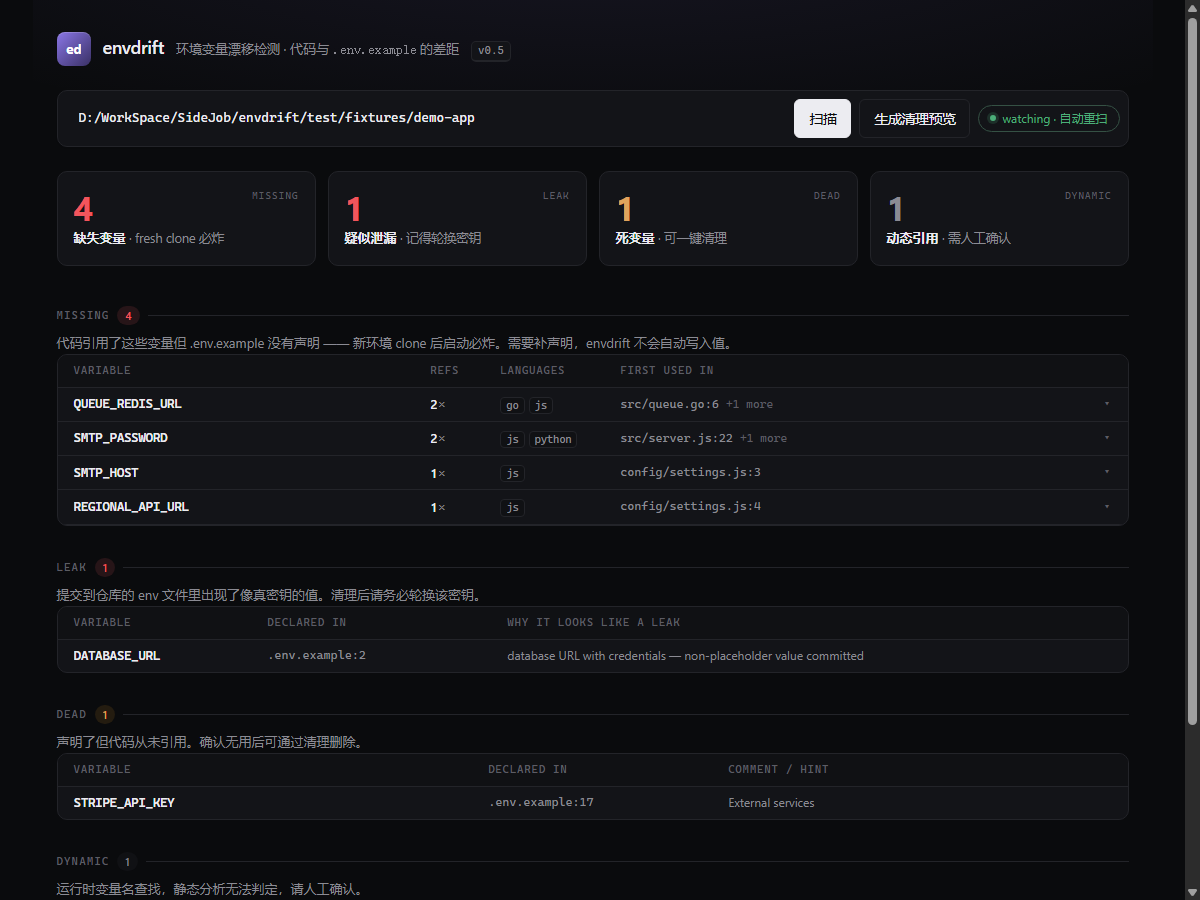
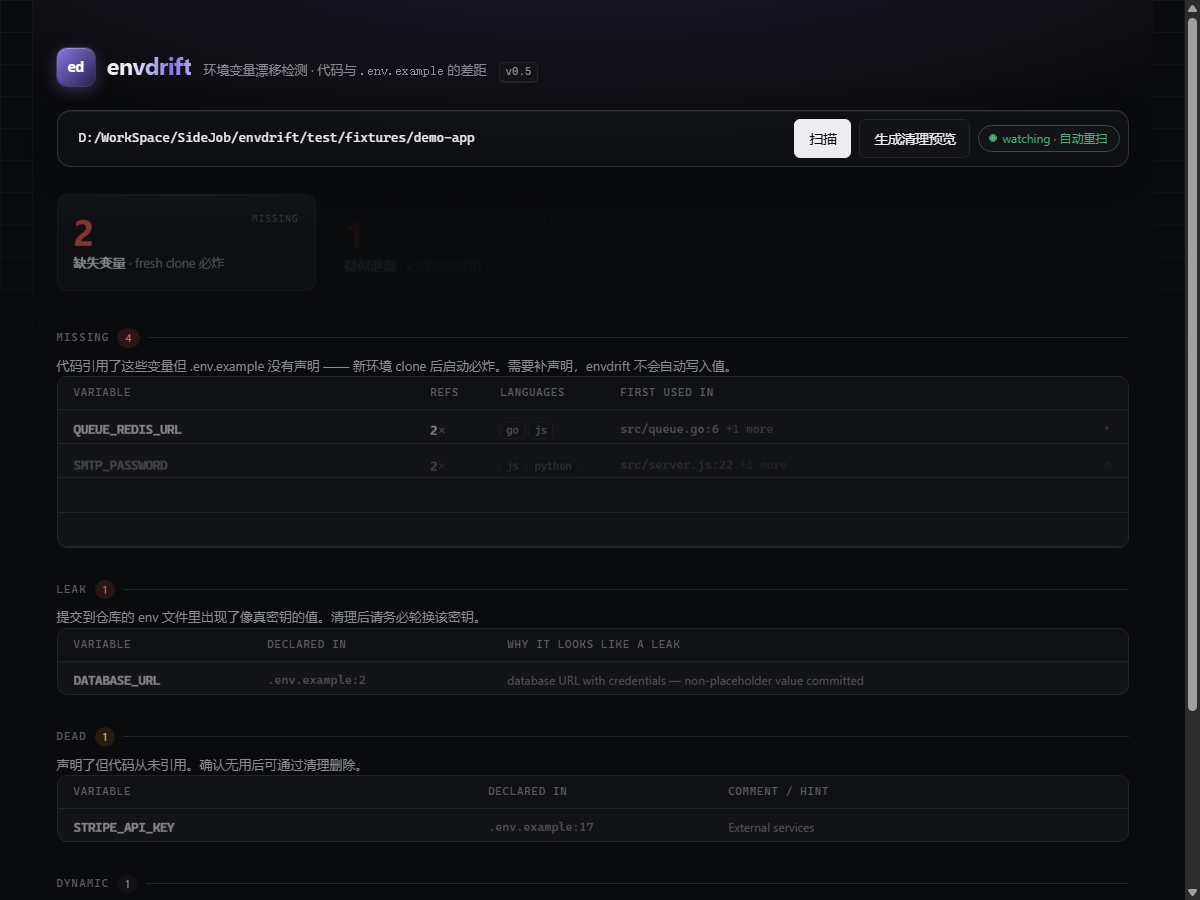
style(ui): real visual effects — glass, glow, grid, motion (v0.8)
Stop re-skinning tokens; add the effects people actually see:

- glassmorphism scan bar: backdrop-blur(20px) saturate(1.4), translucent
  surface, inner top highlight, sticky while scrolling
- blueprint grid overlay on the page, masked to fade downward
- violet halo behind the header strengthened (16% dark)
- gradient-text h1 (fg -> accent clip)
- logo: gradient + glow ring + floating shadow
- stat cards: accent-tinted top gradient, Linear-style 1px light edge,
  hover lift + accent shadow, edge highlight brightens
- live pulse ring on the watching dot (1.8s loop)
- entrance motion: stat cards cascade 45ms apart, table rows cascade
  30ms apart, numbers count up with eased raf tween
- reduced-motion: all of the above disabled properly

diff --git a/src/web/index.html b/src/web/index.html
@@ -21,6 +21,9 @@
   --mono: ui-monospace, "SF Mono", "Cascadia Code", Consolas, monospace;
   --sans: "Inter", -apple-system, "Segoe UI", "PingFang SC", "Microsoft YaHei", system-ui, sans-serif;
   --halo: radial-gradient(1200px 320px at 50% -80px, rgba(110, 86, 207, 0.07), transparent 70%);
+  --grid-line: rgba(24, 24, 27, 0.045);
+  --glass: rgba(255, 255, 255, 0.72);
+  --glass-edge: rgba(255, 255, 255, 0.85);
 }
 @media (prefers-color-scheme: dark) {
   :root {
@@ -31,7 +34,10 @@
     --danger: #f2555c; --danger-subtle: #271518;
     --warn: #e0a35c; --warn-subtle: #241c10;
     --ok: #4cae79; --ok-subtle: #0f1e16;
-    --halo: radial-gradient(1200px 320px at 50% -80px, rgba(139, 119, 232, 0.10), transparent 70%);
+    --halo: radial-gradient(1200px 380px at 50% -100px, rgba(139, 119, 232, 0.16), transparent 68%);
+    --grid-line: rgba(236, 236, 241, 0.05);
+    --glass: rgba(19, 20, 24, 0.60);
+    --glass-edge: rgba(255, 255, 255, 0.14);
   }
 }
 * { box-sizing: border-box; margin: 0; }
@@ -43,23 +49,44 @@ body {
   padding: 0 var(--space-5) var(--space-7);
   max-width: 1120px; margin: 0 auto;
   -webkit-font-smoothing: antialiased; text-rendering: optimizeLegibility;
+  position: relative;
+}
+/* full-page blueprint grid, fading out downward */
+body::before {
+  content: "";
+  position: fixed; inset: 0; z-index: -1; pointer-events: none;
+  background-image:
+    linear-gradient(to right, var(--grid-line) 1px, transparent 1px),
+    linear-gradient(to bottom, var(--grid-line) 1px, transparent 1px);
+  background-size: 32px 32px;
+  mask-image: linear-gradient(to bottom, rgba(0,0,0,.9), transparent 55%);
+  -webkit-mask-image: linear-gradient(to bottom, rgba(0,0,0,.9), transparent 55%);
 }
 button { font: inherit; cursor: pointer; border-radius: var(--radius-sm); }
 :focus-visible { outline: 2px solid var(--accent); outline-offset: 2px; }
-::selection { background: var(--accent-subtle); color: var(--fg); }
+::selection { background: color-mix(in oklab, var(--accent) 28%, transparent); color: var(--fg); }
 
 /* ---------- header ---------- */
-header { display: flex; align-items: center; gap: var(--space-3); padding: var(--space-6) 0 var(--space-5); flex-wrap: wrap; }
+header { display: flex; align-items: center; gap: var(--space-3); padding: var(--space-7) 0 var(--space-5); flex-wrap: wrap; }
 .logo {
-  width: 34px; height: 34px; border-radius: 8px; flex: none;
-  background: linear-gradient(135deg, var(--accent), color-mix(in oklab, var(--accent) 55%, #000));
+  width: 38px; height: 38px; border-radius: 10px; flex: none;
+  background: linear-gradient(135deg, var(--accent) 0%, color-mix(in oklab, var(--accent) 45%, #000) 100%);
   color: #fff;
   display: grid; place-items: center;
-  font-family: var(--mono); font-weight: 700; font-size: 14px; letter-spacing: -0.5px;
-  box-shadow: inset 0 1px 0 rgba(255,255,255,.18), 0 0 0 1px rgba(0,0,0,.06);
+  font-family: var(--mono); font-weight: 700; font-size: 15px; letter-spacing: -0.5px;
+  box-shadow:
+    inset 0 1px 0 rgba(255,255,255,.25),
+    0 0 0 1px color-mix(in oklab, var(--accent) 30%, transparent),
+    0 4px 16px color-mix(in oklab, var(--accent) 35%, transparent);
 }
 header .titles { display: flex; align-items: baseline; gap: var(--space-3); flex-wrap: wrap; }
-h1 { font-size: var(--text-lg); font-weight: 600; letter-spacing: -0.02em; line-height: 1.3; }
+h1 {
+  font-size: var(--text-xl); font-weight: 700; line-height: 1.2;
+  letter-spacing: -0.03em;
+  background: linear-gradient(100deg, var(--fg) 30%, var(--accent) 75%, color-mix(in oklab, var(--accent) 60%, #fff));
+  -webkit-background-clip: text; background-clip: text;
+  -webkit-text-fill-color: transparent; color: transparent;
+}
 header .sub { color: var(--fg-muted); font-size: var(--text-sm); }
 .kbd {
   font-family: var(--mono); font-size: 11px; color: var(--fg-muted);
@@ -67,11 +94,19 @@ header .sub { color: var(--fg-muted); font-size: var(--text-sm); }
   padding: 0 6px; background: var(--surface);
 }
 
+/* ---------- glass scan bar ---------- */
 .scanrow {
+  position: sticky; top: var(--space-3); z-index: 20;
   display: flex; gap: var(--space-2); flex-wrap: wrap;
-  background: var(--surface); border: 1px solid var(--line); border-radius: var(--radius-md);
+  background: var(--glass);
+  -webkit-backdrop-filter: blur(20px) saturate(1.4);
+  backdrop-filter: blur(20px) saturate(1.4);
+  border: 1px solid var(--glass-edge);
+  border-radius: 14px;
   padding: var(--space-2);
-  box-shadow: 0 1px 2px rgba(0,0,0,.04);
+  box-shadow:
+    0 1px 0 rgba(255,255,255,.06) inset,
+    0 8px 32px rgba(0,0,0,.12);
 }
 .scanrow input {
   flex: 1 1 340px; font: inherit; padding: 8px 12px; border-radius: var(--radius-sm);
@@ -98,20 +133,29 @@ header .sub { color: var(--fg-muted); font-size: var(--text-sm); }
 .btn .spin { width: 13px; height: 13px; border-width: 2px; border-color: rgba(255,255,255,.3); border-top-color: currentColor; vertical-align: middle; }
 .btn:not(.primary):not(.danger) .spin { border-color: var(--line); border-top-color: var(--fg-muted); }
 
-/* watch status pill */
+/* watch status pill: live pulse */
 .watchpill {
   display: inline-flex; align-items: center; gap: 6px;
   font-size: 12px; color: var(--fg-muted);
   border: 1px solid var(--line); border-radius: 999px; padding: 3px 11px;
   align-self: center; white-space: nowrap; background: var(--surface);
 }
-.watchpill .dot { width: 6px; height: 6px; border-radius: 50%; background: var(--fg-faint); }
+.watchpill .dot { width: 6px; height: 6px; border-radius: 50%; background: var(--fg-faint); position: relative; }
 .watchpill.on { color: var(--ok); border-color: color-mix(in oklab, var(--ok) 35%, var(--line)); }
-.watchpill.on .dot { background: var(--ok); box-shadow: 0 0 0 3px color-mix(in oklab, var(--ok) 18%, transparent); }
+.watchpill.on .dot { background: var(--ok); }
+.watchpill.on .dot::after {
+  content: ""; position: absolute; inset: -4px; border-radius: 50%;
+  border: 1.5px solid var(--ok);
+  animation: pulse 1.8s cubic-bezier(.2,.8,.2,1) infinite;
+}
+@keyframes pulse {
+  0% { transform: scale(.5); opacity: .9; }
+  70%, 100% { transform: scale(1.7); opacity: 0; }
+}
 .watchpill.stale { color: var(--warn); border-color: color-mix(in oklab, var(--warn) 35%, var(--line)); }
 .watchpill.stale .dot { background: var(--warn); }
 
-/* ---------- summary: stat blocks ---------- */
+/* ---------- summary: stat blocks (gradient border glow) ---------- */
 .summary {
   display: grid; grid-template-columns: repeat(auto-fit, minmax(180px, 1fr));
   gap: var(--space-3); padding: var(--space-5) 0 var(--space-2);
@@ -121,12 +165,22 @@ header .sub { color: var(--fg-muted); font-size: var(--text-sm); }
   display: flex; flex-direction: column; gap: 1px;
   border: 1px solid var(--line); border-radius: var(--radius-md);
   padding: var(--space-4);
-  background: var(--surface);
-  transition: border-color .12s ease-out, transform .12s ease-out;
+  background:
+    linear-gradient(180deg, color-mix(in oklab, var(--surface) 92%, var(--accent) 8%), var(--surface) 40%)
+    , var(--surface);
+  transition: border-color .15s ease-out, transform .15s cubic-bezier(.2,.8,.2,1), box-shadow .15s ease-out;
   text-decoration: none; color: inherit; position: relative;
+  overflow: hidden;
 }
-.stat:hover { border-color: var(--line-strong); transform: translateY(-1px); }
-.stat b { font-size: 34px; font-weight: 650; line-height: 1.15; letter-spacing: -0.03em; }
+/* Linear-style top light edge */
+.stat::before {
+  content: ""; position: absolute; top: 0; left: 10%; right: 10%; height: 1px;
+  background: linear-gradient(90deg, transparent, color-mix(in oklab, var(--accent) 55%, transparent), transparent);
+  opacity: .6; transition: opacity .15s ease-out;
+}
+.stat:hover { border-color: color-mix(in oklab, var(--accent) 40%, var(--line)); transform: translateY(-2px); box-shadow: 0 8px 24px color-mix(in oklab, var(--accent) 14%, transparent); }
+.stat:hover::before { opacity: 1; }
+.stat b { font-size: 36px; font-weight: 650; line-height: 1.15; letter-spacing: -0.03em; }
 .stat span { font-size: 12.5px; color: var(--fg-muted); }
 .stat .zh { color: var(--fg); font-weight: 550; font-size: 13px; }
 .stat .tag {
@@ -247,7 +301,20 @@ tr.row-dyn .dotcol::before { background: var(--fg-faint); }
 .hint { font-size: var(--text-sm); color: var(--fg-muted); }
 .spin { display: inline-block; width: 14px; height: 14px; border: 2px solid var(--line); border-top-color: var(--accent); border-radius: 50%; animation: r .7s linear infinite; vertical-align: -2px; }
 @keyframes r { to { transform: rotate(360deg); } }
-@media (prefers-reduced-motion: reduce) { .spin { animation: none; border-top-color: var(--fg-muted); } .stat:hover { transform: none; } }
+
+/* entrance: stat cards + table rows rise in */
+@keyframes rise {
+  from { opacity: 0; transform: translateY(6px); }
+  to { opacity: 1; transform: translateY(0); }
+}
+.row-anim { animation: rise .35s cubic-bezier(.2,.8,.2,1) backwards; }
+
+@media (prefers-reduced-motion: reduce) {
+  .spin { animation: none; border-top-color: var(--fg-muted); }
+  .stat:hover { transform: none; }
+  .watchpill.on .dot::after { animation: none; opacity: 0; }
+  .row-anim { animation: none !important; opacity: 1 !important; }
+}
 .result {
   margin-top: var(--space-4); border: 1px solid var(--line); border-radius: var(--radius-md);
   padding: var(--space-3) var(--space-4); background: var(--surface);
@@ -417,6 +484,28 @@ function tbl(id, cols, rowsHtml, emptyText, count) {
       <thead><tr>${cols.map((c) => `<th${c.w ? ` style="width:${c.w}"` : ''}>${c.t}</th>`).join('')}</tr></thead>
       <tbody>${rowsHtml}</tbody>
     </table></div>`;
+  // rows cascade in
+  el.querySelectorAll('tbody tr:not(.rowdetail)').forEach((tr, i) => {
+    tr.classList.add('row-anim');
+    tr.style.animationDelay = `${Math.min(i * 30, 300)}ms`;
+  });
+}
+
+/** animated count-up for stat numbers */
+function countUp(id, target) {
+  const el = $(id);
+  const reduced = matchMedia('(prefers-reduced-motion: reduce)').matches;
+  if (reduced || target === 0) { el.textContent = String(target); return; }
+  const from = Number(el.textContent) || 0;
+  if (from === target) { el.textContent = String(target); return; }
+  const dur = 420; const t0 = performance.now();
+  const tick = (t) => {
+    const p = Math.min(1, (t - t0) / dur);
+    const eased = 1 - Math.pow(1 - p, 3);
+    el.textContent = String(Math.round(from + (target - from) * eased));
+    if (p < 1) requestAnimationFrame(tick);
+  };
+  requestAnimationFrame(tick);
 }
 
 function refLinks(refs, max = 3) {
@@ -426,13 +515,20 @@ function refLinks(refs, max = 3) {
 
 function render(r) {
   const n = (id, v) => { $(id).textContent = v; };
-  n('st-missing', r.missing.length); n('st-leaks', r.leaks.length);
-  n('st-dead', r.dead.length); n('st-dynamic', r.dynamic.length);
   n('n-missing', r.missing.length); n('n-leaks', r.leaks.length);
   n('n-dead', r.dead.length); n('n-dynamic', r.dynamic.length);
+  countUp('st-missing', r.missing.length); countUp('st-leaks', r.leaks.length);
+  countUp('st-dead', r.dead.length); countUp('st-dynamic', r.dynamic.length);
   const z = (id, v) => { const el = $(id); el.classList.toggle('zero', v === 0); if (v === 0) el.removeAttribute('href'); else el.setAttribute('href', '#sec-' + id.replace('stat-', '')); };
   z('stat-missing', r.missing.length); z('stat-leaks', r.leaks.length);
   z('stat-dead', r.dead.length);
+  // stat cards cascade in on each scan
+  for (const [i, id] of ['stat-missing','stat-leaks','stat-dead','stat-dynamic'].entries()) {
+    const el = $(id);
+    el.classList.remove('row-anim'); void el.offsetWidth;
+    el.style.animationDelay = `${i * 45}ms`;
+    el.classList.add('row-anim');
+  }
   $('summary').hidden = false;
 
   const total = r.missing.length + r.leaks.length + r.dead.length + r.dynamic.length;
